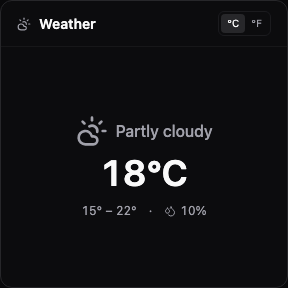
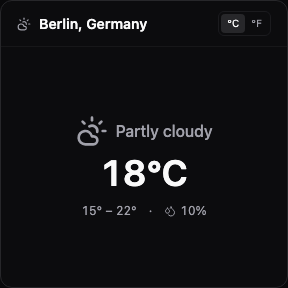
fix(web): show the resolved city on the weather card
/weather/locate returns a place label and the widget was dropping it, so an
IP-resolved reading showed a bare "Weather" with no way to tell which city it
was for. Now the card names it, which also makes a wrong IP guess visible
instead of silent.

Refs bilo-io/midnite-app#2

Changed region(s): [[0.125, 0.0625, 0.5312, 0.125]]

diff --git a/packages/web/components/weather-widget.test.tsx b/packages/web/components/weather-widget.test.tsx
@@ -79,6 +79,15 @@ describe('WeatherWidget location resolution', () => {
     expect(screen.queryByRole('searchbox')).not.toBeInTheDocument();
   });
 
+  it('names the city the IP lookup resolved, so a wrong guess is visible', async () => {
+    stubNavigator(failingGeolocation(2));
+    locateByIp.mockResolvedValue({ lat: 52.52, lon: 13.405, label: 'Berlin, Germany' });
+
+    renderWidget();
+
+    expect(await screen.findByText('Berlin, Germany')).toBeInTheDocument();
+  });
+
   it('falls back to the IP lookup when the browser has no geolocation API at all', async () => {
     stubNavigator(); // insecure context — `navigator.geolocation` is absent
     locateByIp.mockResolvedValue({ lat: 52.52, lon: 13.405, label: 'Berlin, Germany' });

diff --git a/packages/web/components/weather-widget.tsx b/packages/web/components/weather-widget.tsx
@@ -105,9 +105,14 @@ export function WeatherWidget({ config, onConfigChange }: WeatherWidgetProps) {
 
   const setUnits = (u: WeatherUnits) => onConfigChange({ ...config, units: u });
 
+  // A saved place names itself; otherwise show whatever the IP lookup resolved,
+  // so the user can see *which* city the reading is for — and spot it being
+  // wrong — rather than a bare "Weather".
+  const title = location?.label ?? coords?.label ?? widgetLabels.label('weather');
+
   return (
     <WidgetCard
-      title={location?.label ?? widgetLabels.label('weather')}
+      title={title}
       icon={CloudSun}
       actions={
         <div className="flex items-center rounded-md border border-border/60 p-0.5 text-[10px]">
